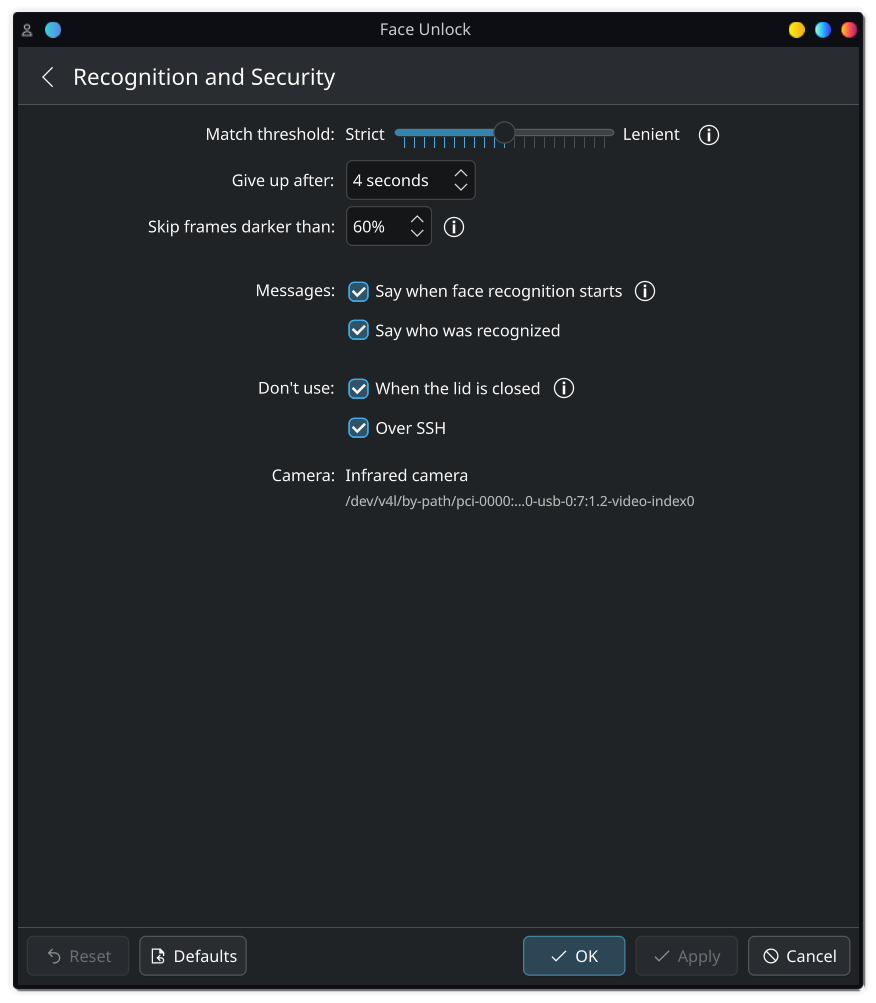
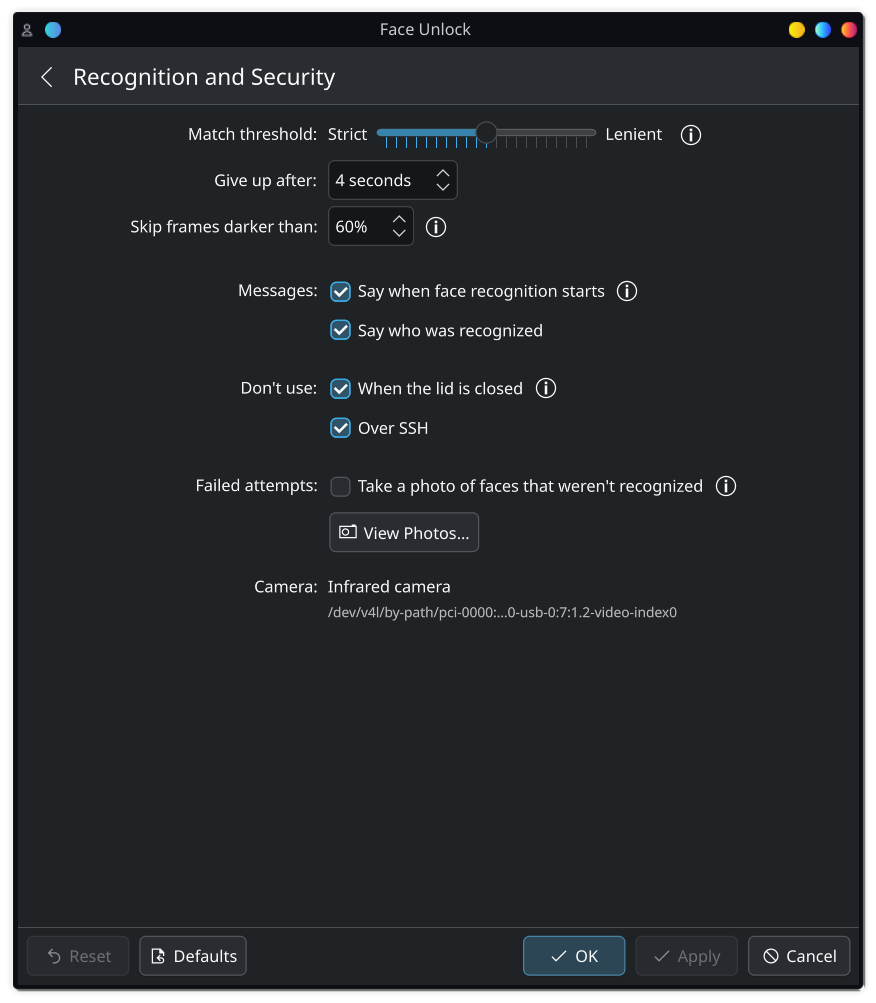
README for newcomers, security policy and issue templates
- Install as numbered steps: check the system, download the right file,
  install from Konsole, set up the face; plus uninstalling and common
  problems. Ubuntu installs the release .deb; the PPA is no longer updated
- Plain-language features list, and warnings where they matter: ordinary
  webcams, keeping the password, the login manager package replacing
  Arch's, and themes running on the lock screen
- Security and limitations, and known issues
- SECURITY.md for private vulnerability reports
- Bug report and feature request forms; questions go to Discussions
- New screenshots: guided setup, and the security page with photos of
  failed attempts

diff --git a/README.md b/README.md
@@ -14,8 +14,7 @@ Sign in, unlock and approve with your face, on the login screen, the lock screen
 [![License: GPL-2.0-or-later](https://img.shields.io/badge/license-GPL--2.0--or--later-blue)](LICENSES/GPL-2.0-or-later.txt)
 
 [![Download](https://img.shields.io/badge/Download-latest%20release-1d99f3?style=for-the-badge&logo=github)](https://github.com/RishonDev/kenning/releases/latest)
-[![Ubuntu PPA](https://img.shields.io/badge/Ubuntu-PPA-E95420?style=for-the-badge&logo=ubuntu&logoColor=white)](https://launchpad.net/~mithicalaviator85/+archive/ubuntu/kenning)
-[![Report a bug](https://img.shields.io/badge/Report-a%20bug-6c757d?style=for-the-badge&logo=github)](https://github.com/RishonDev/kenning/issues/new)
+[![Report a bug](https://img.shields.io/badge/Report-a%20bug-6c757d?style=for-the-badge&logo=github)](https://github.com/RishonDev/kenning/issues/new/choose)
 
 <br>
 
@@ -28,63 +27,140 @@ Sign in, unlock and approve with your face, on the login screen, the lock screen
 
 ## Features
 
-| | |
-|---|---|
-| **Everywhere you sign in** | The lock screen, the login screen, administrator prompts and `sudo`. Your password always works too. |
-| **Plasma's own lock screen** | On Plasma 6.8, Kenning provides the Face sign-in method that Plasma already has a place for. It falls back to your fingerprint or password, and switches to the password as soon as you type. |
-| **Guided setup** | Look straight at the camera, then turn your head when asked, with the steps read aloud if you like. Add more looks for glasses on or off, or different lighting. |
-| **Infrared first** | Uses the IR camera of laptops made for face sign-in. An ordinary webcam works too, with a clear warning about what that means. |
-| **Animated scan** | A face scan animation on the login and lock screens, with installable themes. |
-| **Private by design** | Face models stay on your computer, readable only by Kenning's service, which answers only for your own account. |
+- **Unlock by looking at your screen.** Works on the lock screen, the login screen, administrator prompts and `sudo` in the terminal.
+- **Your password always works.** If your face isn't recognised, or you'd rather type, just type your password.
+- **Easy setup.** System Settings shows you where to look and when to turn your head, and can read the steps aloud.
+- **Best with a face sign-in camera.** Many laptops have an infrared (IR) camera next to the normal one, made for face sign-in. Kenning uses it when it's there, because it works in the dark and is much harder to fool with a photo. An ordinary webcam works too, and Kenning tells you what that means for security.
+- **Fits in with Plasma.** On Plasma 6.8 it appears as Plasma's own Face sign-in option, next to fingerprint and password. You can change how the face scan animation looks, or install new designs.
+- **Your face stays on your computer.** Nothing is uploaded. The saved face data can only be read by Kenning itself, not by other apps or other users.
 
 ## Install
 
-<details open>
-<summary><b>Ubuntu 26.04 and 26.10</b></summary>
+### 1. Check that your computer can use it
 
+You need:
+
+- **KDE Plasma 6.3 or newer.** To check, open **System Settings › About this System** and look at **KDE Plasma Version**.
+- **A camera.** An IR camera, the kind laptops have for signing in with your face, works best. An ordinary webcam works too, but it's easier to fool (see [Security and limitations](#security-and-limitations)).
+
+> [!WARNING]
+> With an ordinary webcam, a photo or video of you may be enough to unlock your computer. Use it only if that's an acceptable risk for you, and keep it off for administrator prompts.
+- **One of these:** Ubuntu 26.04 or 26.10 (including Kubuntu), Debian 13, Fedora 44 or Arch Linux. **About this System** shows which one you have, next to **Operating System**.
+
+### 2. Download the package
+
+Open the [latest release](https://github.com/RishonDev/kenning/releases/latest), scroll down to **Assets** and click the file for your system. It downloads to your **Downloads** folder.
+
+| You have | Download |
+|---|---|
+| Ubuntu or Kubuntu 26.04 | `kenning_…_ubuntu26.04_amd64.deb` |
+| Ubuntu or Kubuntu 26.10 | `kenning_…_ubuntu26.10_amd64.deb` |
+| Debian 13 | `kenning_…_debian13_amd64.deb` |
+| Fedora 44 | `kenning-….fc44.x86_64.rpm` |
+| Arch Linux | `kenning-…-x86_64.pkg.tar.zst` |
+
+Almost every computer needs the **amd64** or **x86_64** file. Take the **arm64** or **aarch64** one only if your laptop has an ARM processor, such as a Snapdragon.
+
+### 3. Install it
+
+Open **Konsole** (search for it in the application launcher), then copy the two lines for your system, paste them with **Ctrl+Shift+V**, and press **Enter**. When asked for your password, type it and press **Enter**. Nothing shows on screen while you type it; that's normal.
+
+**Ubuntu, Kubuntu or Debian**
 ```sh
-sudo add-apt-repository ppa:mithicalaviator85/kenning
-sudo apt install kenning
+cd ~/Downloads
+sudo apt install ./kenning_*.deb
 ```
-</details>
+
+**Fedora**
+```sh
+cd ~/Downloads
+sudo dnf install ./kenning-*.rpm
+```
+
+**Arch Linux**
+```sh
+cd ~/Downloads
+sudo pacman -U kenning-*.pkg.tar.zst
+```
+
+If it says that more than one file matches, you have an older download in the folder too. Delete the older `kenning` file from **Downloads** and try again.
+
+### 4. Set up your face
+
+1. Open **System Settings › Security & Privacy › Face Unlock**. If System Settings was already open, close it and open it again first.
+2. Press **Set Up…** and follow the steps: look at the camera, then turn your head when asked.
+
+   <picture>
+     <source media="(prefers-color-scheme: dark)" srcset="docs/images/setup-dark.png">
+     <img src="docs/images/setup-light.png" alt="Set Up showing an animated head turning left" width="420">
+   </picture>
+
+3. That's it. Face unlock is now on for the lock screen, administrator prompts and `sudo`. Try it by locking the screen with **Meta+L**.
+
+> [!IMPORTANT]
+> Don't forget your password. You still need it after a restart to unlock KWallet, whenever your face isn't recognised, and if you ever remove Kenning.
+
+> [!CAUTION]
+> With face unlock on for `sudo` and administrator prompts, anyone who looks enough like you, or with a webcam, a photo of you, can approve changes to the system while sitting at your computer. If that worries you, untick **Administrator prompts** and **sudo in the terminal** in Face Unlock settings.
+
+To have the steps read aloud, also install `speech-dispatcher` and `espeak-ng` from your software centre (Discover).
 
 <details>
-<summary><b>Debian 13</b></summary>
+<summary><b>Face unlock on the login screen (Arch Linux only, for now)</b></summary>
+<br>
 
-Download `kenning_<version>_debian13_<amd64|arm64>.deb` from the [latest release](https://github.com/RishonDev/kenning/releases/latest), then:
-
-```sh
-sudo apt install ./kenning_*_debian13_amd64.deb
-```
-</details>
-
-<details>
-<summary><b>Fedora 44</b></summary>
-
-Download `kenning-<version>.fc44.<x86_64|aarch64>.rpm` from the [latest release](https://github.com/RishonDev/kenning/releases/latest), then:
+This needs Plasma Login Manager as your login screen. To check, run this in Konsole:
 
 ```sh
-sudo dnf install ./kenning-*.fc44.x86_64.rpm
+systemctl status display-manager
 ```
-</details>
 
-<details>
-<summary><b>Arch Linux</b></summary>
-
-Download `kenning-<version>-x86_64.pkg.tar.zst` from the [latest release](https://github.com/RishonDev/kenning/releases/latest), and for face unlock on the login screen, `plasma-login-manager-kenning` too, then:
+If the first line says **Plasma Login Manager**, download `plasma-login-manager-kenning-…-x86_64.pkg.tar.zst` from the same release, then:
 
 ```sh
-sudo pacman -U kenning-*.pkg.tar.zst plasma-login-manager-kenning-*.pkg.tar.zst
+cd ~/Downloads
+sudo pacman -U plasma-login-manager-kenning-*.pkg.tar.zst
 ```
+
+If it says something else, such as **SDDM**, skip this. Face unlock still works everywhere else.
+
+> [!WARNING]
+> This package replaces Arch's own `plasma-login-manager`, so system updates no longer update your login screen. After each Plasma update, install the newest `plasma-login-manager-kenning` from the [releases page](https://github.com/RishonDev/kenning/releases), or go back to Arch's version.
+>
+> If the login screen ever stops appearing, press **Ctrl+Alt+F3**, sign in with your user name and password, and run:
+> ```sh
+> sudo pacman -S plasma-login-manager
+> sudo reboot
+> ```
+
 </details>
 
-Then open **System Settings › Security & Privacy › Face Unlock** and press **Set Up…**. The camera is found automatically, and once your face is saved, face unlock is switched on for the login screen, the lock screen and `sudo`.
+## Uninstall
 
-To have the setup steps read aloud, install `speech-dispatcher` with a voice such as `espeak-ng`.
+Your password keeps working throughout. To remove Kenning, run the line for your system in Konsole:
+
+| You have | Run |
+|---|---|
+| Ubuntu, Kubuntu or Debian | `sudo apt remove kenning` |
+| Fedora | `sudo dnf remove kenning` |
+| Arch Linux | `sudo pacman -R kenning` |
+
+This also takes it off the lock screen and the sign-in prompts. To delete your saved face as well, do this first: open **System Settings › Face Unlock**, press **Manage…** and remove each saved look.
+
+## Problems?
+
+- **Face unlock didn't recognise me.** Type your password instead; it always works. To improve recognition, press **Add Look…** in Face Unlock settings and set up again with glasses on or off, or in different lighting.
+- **"Too dark or too bright".** Face the light instead of having it behind you, or turn on a lamp. Bright sunlight from behind or beside you can also cause this.
+- **Face Unlock isn't in System Settings.** Close System Settings and open it again. If it still isn't there, restart the computer.
+- **"No camera was found".** Check that the camera works in another app, such as Kamoso, and that no other app is using it.
+- **Anything else:** [open an issue](https://github.com/RishonDev/kenning/issues/new/choose). The form tells you what to include.
 
 ## Animation themes
 
 Pick how the scan looks on the login and lock screens, or install a theme from a file. Themes are QML, like SDDM themes; [THEMES.md](THEMES.md) shows how to make one.
+
+> [!WARNING]
+> A theme runs on your login and lock screens, where it can see what's typed there. Only install themes from people you trust.
 
 <div align="center">
 <picture>
@@ -127,6 +203,18 @@ flowchart LR
 </div>
 </details>
 
+### Security and limitations
+
+Face unlock is a convenience, not a stronger lock than your password. Before you rely on it:
+
+- **An ordinary webcam can be fooled by a photo or video of you.** Kenning has no liveness check. An IR camera is much harder to fool, since a printed photo or a screen looks different in infrared, but Kenning isn't a certified biometric system.
+- **People who look like you**, such as a twin or a close sibling, may be recognised as you. Moving **Match threshold** towards **Strict** helps (Face Unlock settings › **Recognition and security: Configure…**).
+- **Your password always works**, and it is still what protects your data. Face unlock doesn't change disk encryption, and signing in with your face doesn't unlock KWallet, which still needs your password.
+- **Not for shared or high-security computers.** Use your password, a fingerprint or a security key there.
+- **Photos of failed attempts are off by default.** If you turn them on, the camera photographs anyone it doesn't recognise, including people who don't know about it. Tell others who use your computer, and check the law where you live.
+
+Found a security problem? Please report it privately, as [SECURITY.md](SECURITY.md) explains.
+
 ### Plasma versions
 
 | Plasma | Lock screen |
@@ -136,6 +224,12 @@ flowchart LR
 | Older, or unknown | The stock lock screen; look at the camera, then press Unlock |
 
 Face unlock on the login screen needs `plasma-login-manager-kenning`, packaged for Arch Linux so far.
+
+### Known issues
+
+- Face unlock on the login screen needs Plasma Login Manager, so it isn't there yet on Debian and Ubuntu, which use SDDM. Their lock screen, `sudo` and administrator prompts work.
+- The Fedora packages are built and install-tested in containers, but haven't been tried on real hardware yet.
+- Setup and recognition are tested on a few laptops so far. If your camera isn't found, or recognition is slow or unreliable, please [open an issue](https://github.com/RishonDev/kenning/issues/new/choose).
 
 ## Building
 
@@ -150,12 +244,28 @@ Everything comes from your distribution's repositories (OpenCV, Qt, KDE Framewor
 All three share one CMake install, and `tests/containers/` builds and tests them in containers.
 
 <details>
+<summary><b>Development</b></summary>
+
+```sh
+cmake -B build -G Ninja -DKENNING_KCM_SMOKE_TEST=ON
+cmake --build build
+ctest --test-dir build                         # unit tests, and the settings page loading
+cmake --build build --target clang-format      # KDE's code style; also checked before each commit
+packaging/bump-version.sh 0.7.0 "What changed"  # version and changelogs, before tagging a release
+```
+
+CI runs the same build, tests and style check on every push, plus shellcheck and `reuse lint`.
+
+</details>
+
+<details>
 <summary><b>Repository layout</b></summary>
 
 | Folder | What's in it |
 |---|---|
 | `engine/native/` | The `kenning` command (enrol, list, remove, test), the service (`kenning daemon`) and `pam_kenning.so` |
-| `kcm/` | The System Settings page, its KAuth helper and the bundled themes |
+| `autotests/` | Unit tests (QTest) for the engine, the service and the settings checks |
+| `kcm/` | The System Settings page, its KAuth helper (`src/auth`), the code they share (`src/common`) and the bundled themes |
 | `lockscreen/` | The lock screen add-on, re-applied after Plasma updates and undone on removal |
 | `login-manager/` | Patches for Plasma Login Manager, one per version, and `apply.sh`, which picks the one that fits: scans as soon as the login screen appears |
 | `packaging/` | Arch, Debian and Fedora packaging, PAM tidying, and the first-login setup prompt |

diff --git a/SECURITY.md b/SECURITY.md
@@ -1,0 +1,33 @@
+# Security
+
+Kenning is part of how you sign in, so a security problem in it matters. Thank you for reporting one.
+
+## Reporting a vulnerability
+
+Please **don't open a public issue**. Report it privately instead, through [GitHub's private vulnerability reporting](https://github.com/RishonDev/kenning/security/advisories/new).
+
+Include what you can of:
+
+- what an attacker could do, and what they need first, such as physical access, a local account or a photo of the user
+- the steps to reproduce it
+- your distribution, Plasma version, Kenning version (`kenning version`) and camera (IR or ordinary webcam)
+
+You'll get a reply within a week. Once a fix is released, the advisory is published with credit to you, unless you'd rather not be named.
+
+## Supported versions
+
+Only the latest release gets security fixes.
+
+## What counts
+
+Examples of what to report:
+
+- signing in, unlocking or approving as someone without their face or password
+- reading or replacing someone's face models, or the photos of failed attempts
+- a way to make Kenning's service or its root helper run something for another user
+- getting around the rate limit on failed attempts
+
+These are known limits, which the README describes, rather than vulnerabilities:
+
+- an ordinary webcam being fooled by a photo or video, since Kenning has no liveness check
+- someone who looks very much like you being recognised
